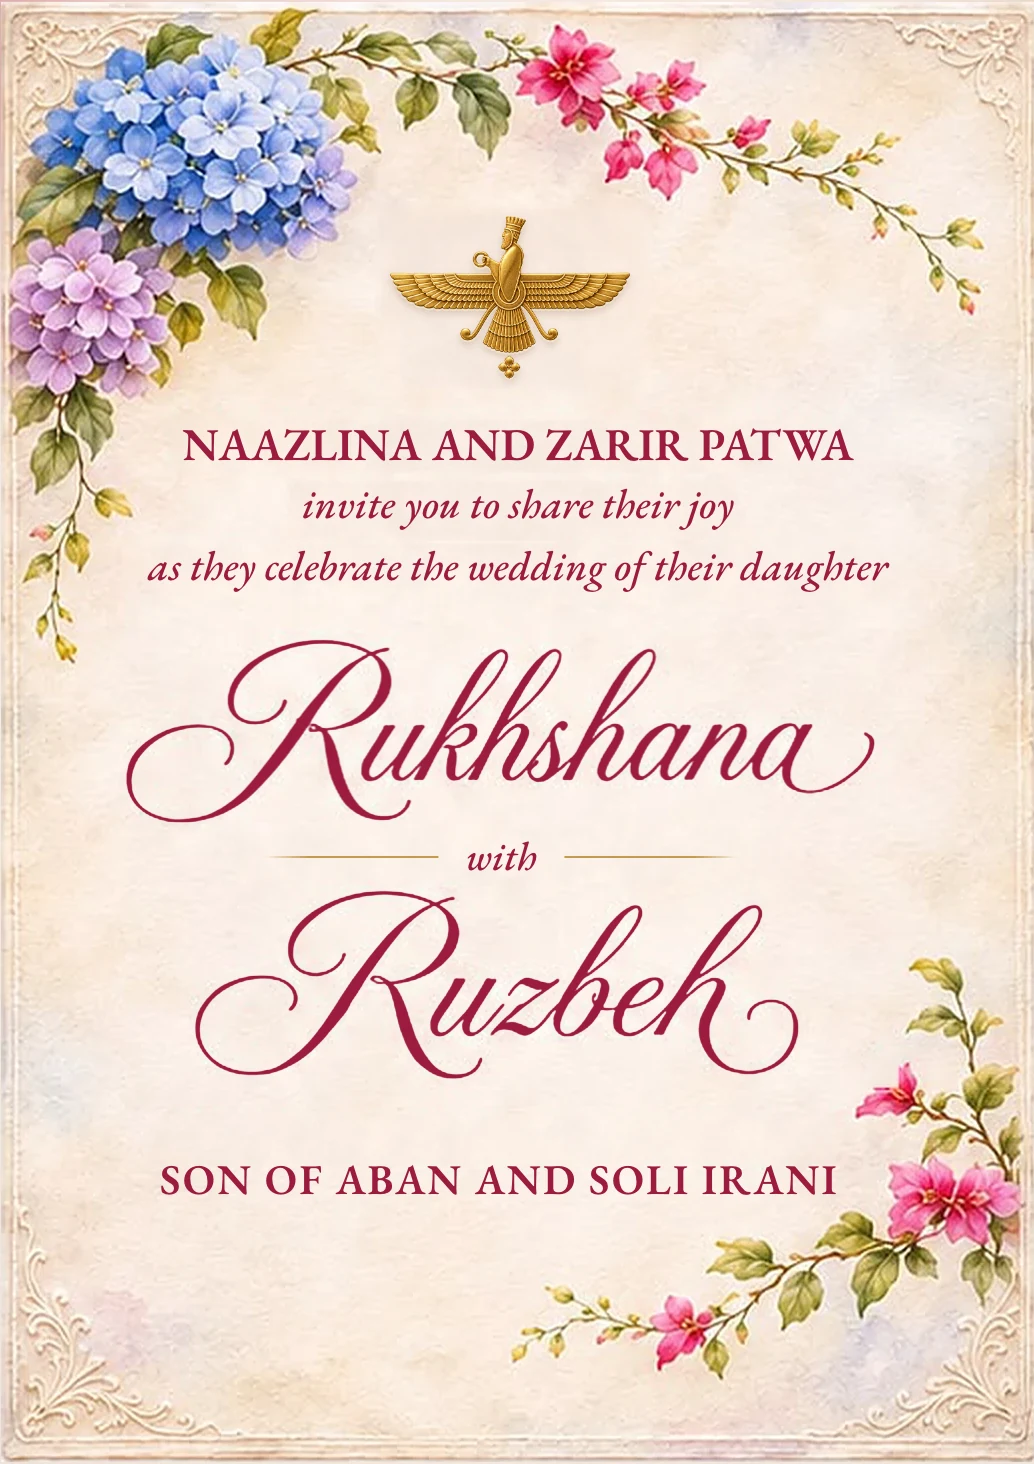
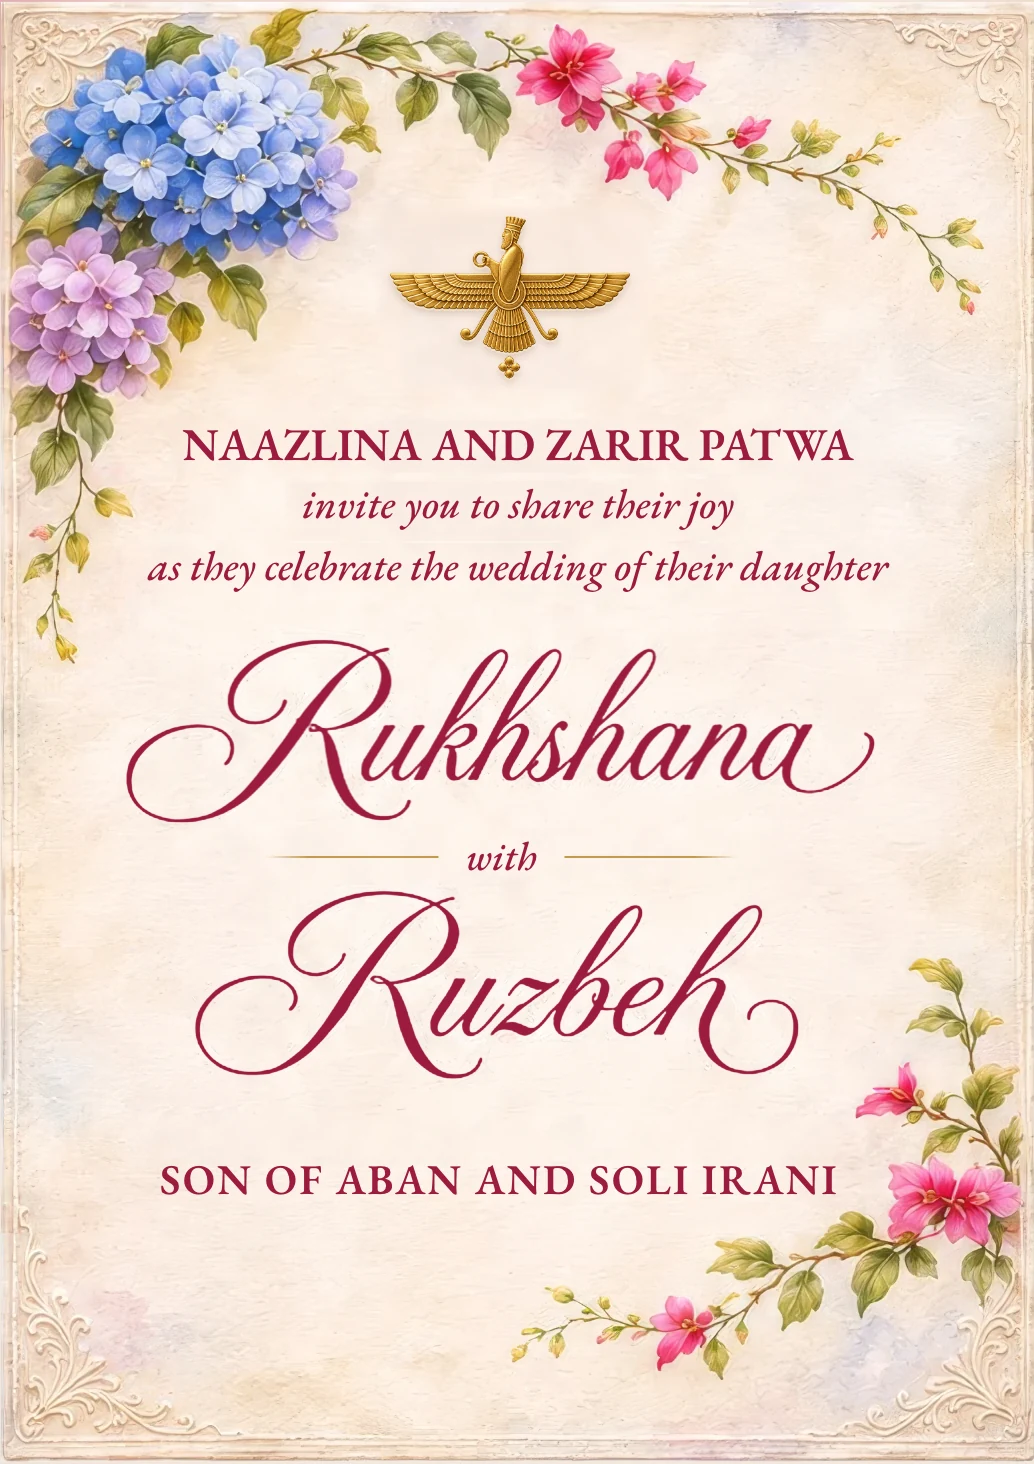
Sharpen bluebird preview art with a faithful upscale
The cleaned pages, cover and envelope layers were upscaled 4x with Topaz
High Fidelity V2 (no repaint) and cut at 3x, replacing the Lanczos 2x
art. Positions and layers are unchanged.

diff --git a/bluebird/index.html b/bluebird/index.html
@@ -14,14 +14,14 @@
   <link rel="icon" href="data:,">
     <link rel="preload" href="../assets/fonts/EBGaramond.woff2" as="font" type="font/woff2" crossorigin>
   <link rel="preload" href="../assets/fonts/EBGaramond-Italic.woff2" as="font" type="font/woff2" crossorigin>
-  <link rel="preload" href="../assets/art/bluebird/cover.webp?v=bluebird-3" as="image">
-  <link rel="stylesheet" href="styles.css?v=bluebird-3">
-  <link rel="stylesheet" href="card-layout.css?v=bluebird-3">
-  <link rel="stylesheet" href="rsvp.css?v=bluebird-3">
-  <link rel="stylesheet" href="parents-handover.css?v=bluebird-3">
-  <link rel="stylesheet" href="real-flowers.css?v=bluebird-3">
-  <link rel="stylesheet" href="bluebird.css?v=bluebird-3">
-  <script src="app.js?v=bluebird-3" defer></script>
+  <link rel="preload" href="../assets/art/bluebird/cover.webp?v=bluebird-4" as="image">
+  <link rel="stylesheet" href="styles.css?v=bluebird-4">
+  <link rel="stylesheet" href="card-layout.css?v=bluebird-4">
+  <link rel="stylesheet" href="rsvp.css?v=bluebird-4">
+  <link rel="stylesheet" href="parents-handover.css?v=bluebird-4">
+  <link rel="stylesheet" href="real-flowers.css?v=bluebird-4">
+  <link rel="stylesheet" href="bluebird.css?v=bluebird-4">
+  <script src="app.js?v=bluebird-4" defer></script>
 </head>
 <body class="is-sealed theme-bluebird" data-handover="off">
 
@@ -31,12 +31,12 @@
     <div class="petals petals--far" id="petals-far" aria-hidden="true"></div>
 
     <div class="cover-card" id="cover-card">
-      <img class="cover-art" src="../assets/art/bluebird/cover.webp?v=bluebird-3" alt="" draggable="false">
+      <img class="cover-art" src="../assets/art/bluebird/cover.webp?v=bluebird-4" alt="" draggable="false">
 
       <header class="sealed-head" id="sealed-head">
         <img class="sealed-emblem" src="../assets/art/farohar-embossed-gold.png" alt="" draggable="false">
         <p class="cover-wedding">Wedding</p>
-        <h1 class="cover-invitation"><img src="../assets/art/bluebird/word-invitation.webp?v=bluebird-3" alt="Invitation" draggable="false"></h1>
+        <h1 class="cover-invitation"><img src="../assets/art/bluebird/word-invitation.webp?v=bluebird-4" alt="Invitation" draggable="false"></h1>
         <span class="gold-rule" aria-hidden="true"><i></i></span>
         <div class="sealed-names" aria-label="Rukhshana and Ruzbeh" hidden><span>Rukhshana</span><span>and</span><span>Ruzbeh</span></div>
       </header>
@@ -47,7 +47,7 @@
         <img class="presenting-parents" id="presenting-parents" alt="" hidden>
         <button class="envelope" id="envelope" type="button" aria-label="Open your invitation">
           <span class="env-back" aria-hidden="true"></span>
-          <span class="env-window" aria-hidden="true"><img class="env-letter" id="env-letter" src="../assets/art/bluebird/card-1.webp?v=bluebird-3" alt="" draggable="false"></span>
+          <span class="env-window" aria-hidden="true"><img class="env-letter" id="env-letter" src="../assets/art/bluebird/card-1.webp?v=bluebird-4" alt="" draggable="false"></span>
           <span class="env-front" aria-hidden="true"></span>
           <span class="env-glow" id="env-glow" aria-hidden="true"></span>
           <span class="env-sparkles" id="env-sparkles" aria-hidden="true"></span>
@@ -55,8 +55,8 @@
             <span class="flap-face flap-face--front"></span>
             <span class="flap-face flap-face--back"></span>
           </span>
-          <span class="env-seal" id="env-seal" aria-hidden="true"><img src="../assets/art/bluebird/env-seal.webp?v=bluebird-3" alt="" draggable="false"></span>
-          <span class="env-bird" id="env-bird" aria-hidden="true"><img src="../assets/art/bluebird/env-bird.webp?v=bluebird-3" alt="" draggable="false"></span>
+          <span class="env-seal" id="env-seal" aria-hidden="true"><img src="../assets/art/bluebird/env-seal.webp?v=bluebird-4" alt="" draggable="false"></span>
+          <span class="env-bird" id="env-bird" aria-hidden="true"><img src="../assets/art/bluebird/env-bird.webp?v=bluebird-4" alt="" draggable="false"></span>
         </button>
       </div>
 
@@ -94,12 +94,12 @@
         <div class="face face--front">
           <section class="page print-page" aria-label="Page 1 of 4">
             <div class="print-canvas print-invitation">
-              <img class="print-frame" src="../assets/art/bluebird/frame-names.webp?v=bluebird-3" alt="" draggable="false">
+              <img class="print-frame" src="../assets/art/bluebird/frame-names.webp?v=bluebird-4" alt="" draggable="false">
               <button class="print-emblem card-luck" type="button" aria-label="Gold Farohar — a little wedding surprise"><img src="../assets/art/farohar-embossed-gold.png" alt="" draggable="false"></button>
               <p class="print-intro"><span class="print-host-names">Naazlina and Zarir Patwa</span><span class="print-invite-line">invite <span id="p-guest">you</span> to share their joy</span><span class="print-celebrate">as they celebrate the wedding</span> <span class="print-of">of their daughter</span></p>
-              <h1 class="print-name print-name--bride"><img src="../assets/art/bluebird/word-rukhshana.webp?v=bluebird-3" alt="Rukhshana" draggable="false"></h1>
+              <h1 class="print-name print-name--bride"><img src="../assets/art/bluebird/word-rukhshana.webp?v=bluebird-4" alt="Rukhshana" draggable="false"></h1>
               <p class="print-and"><span aria-hidden="true"></span>with<span aria-hidden="true"></span></p>
-              <h1 class="print-name print-name--groom"><img src="../assets/art/bluebird/word-ruzbeh.webp?v=bluebird-3" alt="Ruzbeh" draggable="false"></h1>
+              <h1 class="print-name print-name--groom"><img src="../assets/art/bluebird/word-ruzbeh.webp?v=bluebird-4" alt="Ruzbeh" draggable="false"></h1>
               <p class="print-parents"><span class="print-parent-label">son of</span> <span class="print-parent-names">Aban and Soli Irani</span></p>
             </div>
           </section>
@@ -110,7 +110,7 @@
         <div class="face face--front">
           <section class="page print-page" aria-label="Page 2 of 4">
             <div class="print-canvas print-details">
-              <img class="print-frame" src="../assets/art/bluebird/frame-venue.webp?v=bluebird-3" alt="Watercolour of All Bless Baug framed by bougainvillea and hydrangeas." draggable="false">
+              <img class="print-frame" src="../assets/art/bluebird/frame-venue.webp?v=bluebird-4" alt="Watercolour of All Bless Baug framed by bougainvillea and hydrangeas." draggable="false">
               <button class="print-emblem card-luck" type="button" aria-label="Gold Farohar — a little wedding surprise"><img src="../assets/art/farohar-embossed-gold.png" alt="" draggable="false"></button>
               <a class="print-when" draggable="false" href="../assets/wedding.ics" download="Rukhshana-and-Ruzbeh-wedding.ics" aria-label="Friday, 26 February 2027 at 6 PM. Add to calendar">
                 <span class="print-when-day">
@@ -139,9 +139,9 @@
         <div class="face face--front">
           <section class="page print-page" id="families" aria-label="Page 3 of 4">
             <div class="print-canvas print-families">
-              <img class="print-frame" src="../assets/art/bluebird/frame-families.webp?v=bluebird-3" data-groom-src="../assets/art/bluebird/frame-families.webp?v=bluebird-3" alt="Watercolour of the silver ses tray with flowers." draggable="false">
+              <img class="print-frame" src="../assets/art/bluebird/frame-families.webp?v=bluebird-4" data-groom-src="../assets/art/bluebird/frame-families.webp?v=bluebird-4" alt="Watercolour of the silver ses tray with flowers." draggable="false">
               <button class="print-emblem card-luck" type="button" aria-label="Gold Farohar — a little wedding surprise"><img src="../assets/art/farohar-embossed-gold.png" alt="" draggable="false"></button>
-              <h2 class="print-heading print-heading--blessings"><img src="../assets/art/bluebird/word-blessings.webp?v=bluebird-3" alt="Blessings" draggable="false"></h2>
+              <h2 class="print-heading print-heading--blessings"><img src="../assets/art/bluebird/word-blessings.webp?v=bluebird-4" alt="Blessings" draggable="false"></h2>
               <span class="gold-rule print-flourish print-flourish--blessings" aria-hidden="true"><i></i></span>
               <ul class="print-people print-people--blessings">
                 <li class="person">Jamshed Patwa</li>
@@ -150,7 +150,7 @@
                 <li class="person">Piroja &amp; Behram Baria</li>
                 <li class="person">Nariosang Navroje</li>
               </ul>
-              <h2 class="print-heading print-heading--compliments"><img src="../assets/art/bluebird/word-compliments.webp?v=bluebird-3" alt="Compliments" draggable="false"></h2>
+              <h2 class="print-heading print-heading--compliments"><img src="../assets/art/bluebird/word-compliments.webp?v=bluebird-4" alt="Compliments" draggable="false"></h2>
               <span class="gold-rule print-flourish print-flourish--compliments" aria-hidden="true"><i></i></span>
               <ul class="print-people print-people--compliments">
                 <li class="person">Goolcher Patwa</li>

diff --git a/bluebird/bluebird.css b/bluebird/bluebird.css
@@ -21,7 +21,7 @@
 body{background:var(--paper);background-image:none}
 
 /* Soft blurred copy of the card behind everything, like the card lying on its own colours. */
-.table,.sealed::before{display:block;content:"";position:fixed;inset:-60px;z-index:0;background:url("../assets/art/bluebird/cover.webp?v=bluebird-3") center/cover no-repeat;filter:blur(30px) saturate(.9);opacity:.55;mix-blend-mode:normal;pointer-events:none}
+.table,.sealed::before{display:block;content:"";position:fixed;inset:-60px;z-index:0;background:url("../assets/art/bluebird/cover.webp?v=bluebird-4") center/cover no-repeat;filter:blur(30px) saturate(.9);opacity:.55;mix-blend-mode:normal;pointer-events:none}
 .sealed::before{position:absolute}
 .sealed{background:var(--paper);background-image:none;padding:0;display:block}
 .petals,.flock,.depth{display:none}
@@ -44,15 +44,15 @@ body{background:var(--paper);background-image:none}
 
 .cover-card .env-wrap{position:absolute;left:16.21%;top:46.73%;width:70.7%;z-index:3;perspective:1100px}
 .cover-card .envelope{width:100%;aspect-ratio:362/252;--pocket-apex:.71;filter:drop-shadow(0 2px 2px rgba(110,78,48,.22)) drop-shadow(0 9px 12px rgba(110,78,48,.16))}
-.cover-card .env-back{inset:0;border-radius:0;box-shadow:none;background:url("../assets/art/bluebird/env-back.webp?v=bluebird-3") 0 0/100% 100% no-repeat}
+.cover-card .env-back{inset:0;border-radius:0;box-shadow:none;background:url("../assets/art/bluebird/env-back.webp?v=bluebird-4") 0 0/100% 100% no-repeat}
 .cover-card .env-window{left:7%;right:7%;top:-250%;bottom:4%}
 .cover-card .env-letter{top:76.9%;border:0;box-shadow:0 -4px 14px rgba(90,60,40,.16)}
-.cover-card .env-front{inset:-5.16% -4.14% -17.86% -3.59%;clip-path:none;border-radius:0;background:url("../assets/art/bluebird/env-front.webp?v=bluebird-3") 0 0/100% 100% no-repeat}
+.cover-card .env-front{inset:-5.16% -4.14% -17.86% -3.59%;clip-path:none;border-radius:0;background:url("../assets/art/bluebird/env-front.webp?v=bluebird-4") 0 0/100% 100% no-repeat}
 .cover-card .env-front::before,.cover-card .env-front::after,.cover-card .flap-face--front::before,.cover-card .flap-face--front::after,.cover-card .flap-face--back::after{display:none}
 .cover-card .env-flap{height:71.03%}
 .cover-card .flap-face{clip-path:none;border-radius:0}
-.cover-card .flap-face--front{background:url("../assets/art/bluebird/env-flap.webp?v=bluebird-3") 0 0/100% 100% no-repeat}
-.cover-card .flap-face--back{background:url("../assets/art/bluebird/env-flap-back.webp?v=bluebird-3") 0 0/100% 100% no-repeat}
+.cover-card .flap-face--front{background:url("../assets/art/bluebird/env-flap.webp?v=bluebird-4") 0 0/100% 100% no-repeat}
+.cover-card .flap-face--back{background:url("../assets/art/bluebird/env-flap-back.webp?v=bluebird-4") 0 0/100% 100% no-repeat}
 .cover-card .env-seal{left:51.24%;top:57.34%;width:26.24%;aspect-ratio:1}
 .cover-card .env-seal img{filter:drop-shadow(0 1px 1px rgba(90,60,20,.4)) drop-shadow(0 3px 5px rgba(90,60,20,.22))}
 .env-bird{position:absolute;left:33.7%;top:12.3%;z-index:9;width:33.43%;aspect-ratio:121/98;pointer-events:none;will-change:transform,opacity}
@@ -148,7 +148,7 @@ body{background:var(--paper);background-image:none}
 .print-families--groom .print-people .person--cameo{gap:calc(1.2 * var(--w));margin:0}
 
 /* ---------- RSVP keeps its flow, on the cover's paper ---------- */
-#rsvp{background:var(--card-paper) url("../assets/art/bluebird/rsvp.webp?v=bluebird-3") center/100% 100% no-repeat}
+#rsvp{background:var(--card-paper) url("../assets/art/bluebird/rsvp.webp?v=bluebird-4") center/100% 100% no-repeat}
 #rsvp .p-scene,#rsvp .frame--petals{display:none}
 #rsvp .rs-masthead{background-image:none}
 .curl{background-color:#f6ede3}
